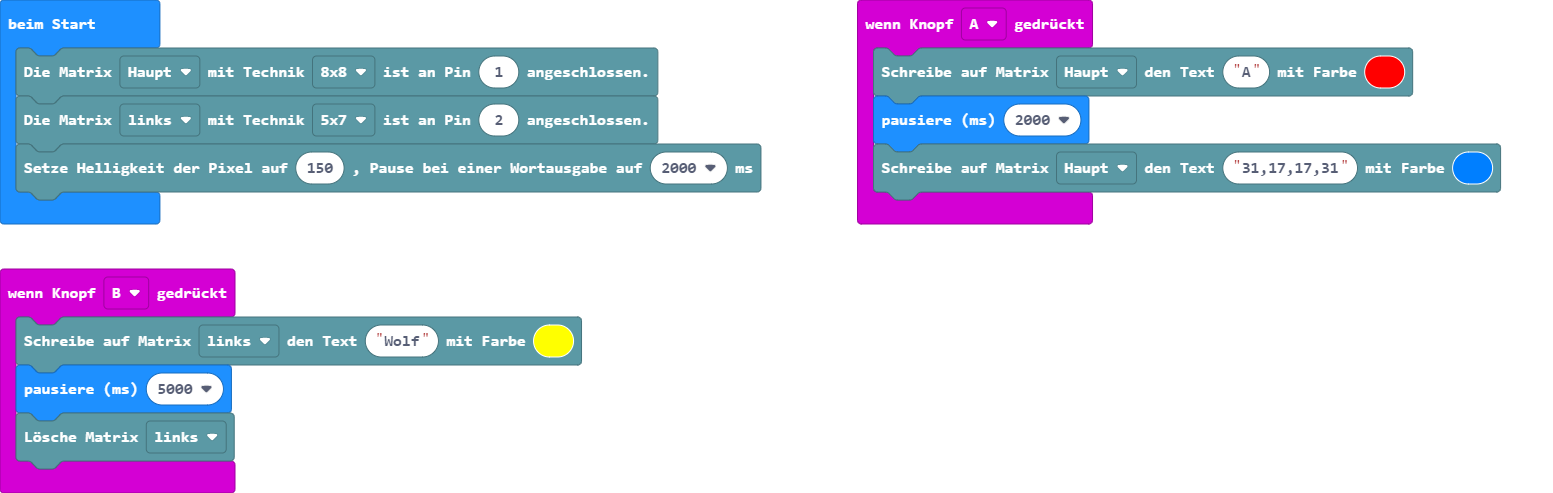
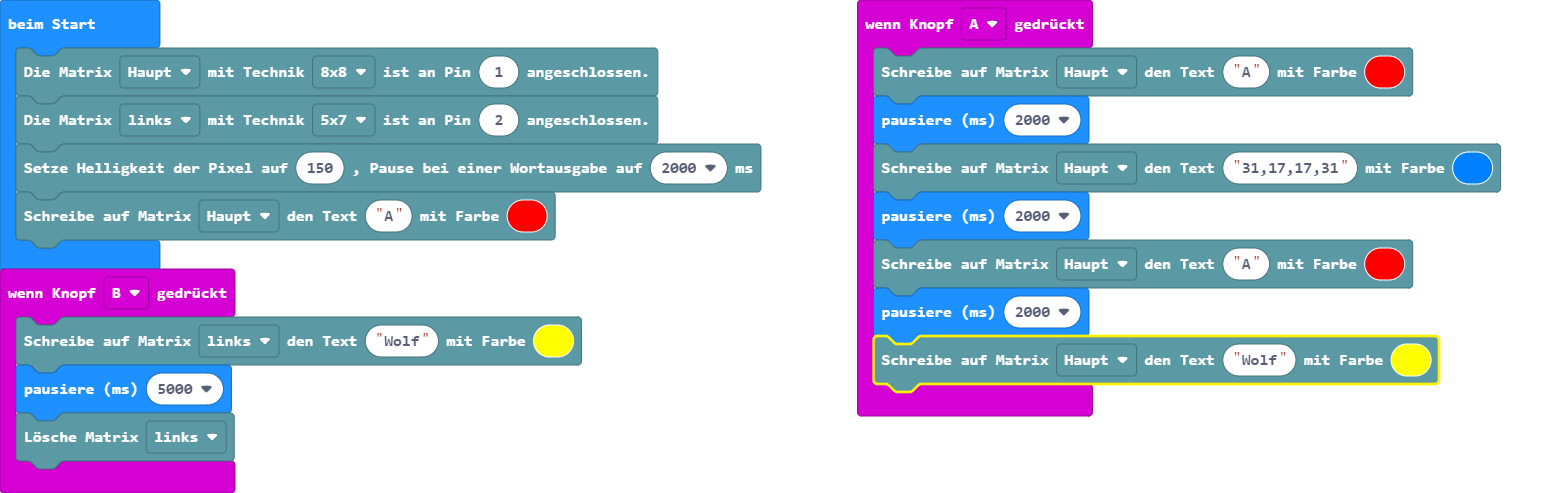
Aktualisiere pxt.json, main.blocks, main.ts

Changed region(s): [[0.5254, 0.3651, 0.9272, 0.8519], [0.0, 0.3651, 0.3709, 0.5477]]

diff --git a/main.ts b/main.ts
@@ -2,6 +2,10 @@ input.onButtonPressed(Button.A, function () {
     DLPLmultibox.schreibeText(nrMatrix.mitte, "A", 0xff0000)
     basic.pause(2000)
     DLPLmultibox.schreibeText(nrMatrix.mitte, "31,17,17,31", 0x007fff)
+    basic.pause(2000)
+    DLPLmultibox.schreibeText(nrMatrix.mitte, "A", 0xff0000)
+    basic.pause(2000)
+    DLPLmultibox.schreibeText(nrMatrix.mitte, "Wolf", 0xffff00)
 })
 input.onButtonPressed(Button.B, function () {
     DLPLmultibox.schreibeText(nrMatrix.links, "Wolf", 0xffff00)
@@ -11,3 +15,4 @@ input.onButtonPressed(Button.B, function () {
 DLPLmultibox.definitionMatrix(nrMatrix.mitte, defMatrix.m0, 1)
 DLPLmultibox.definitionMatrix(nrMatrix.links, defMatrix.m1, 2)
 DLPLmultibox.all_strip_settings(150, 2000)
+DLPLmultibox.schreibeText(nrMatrix.mitte, "A", 0xff0000)
